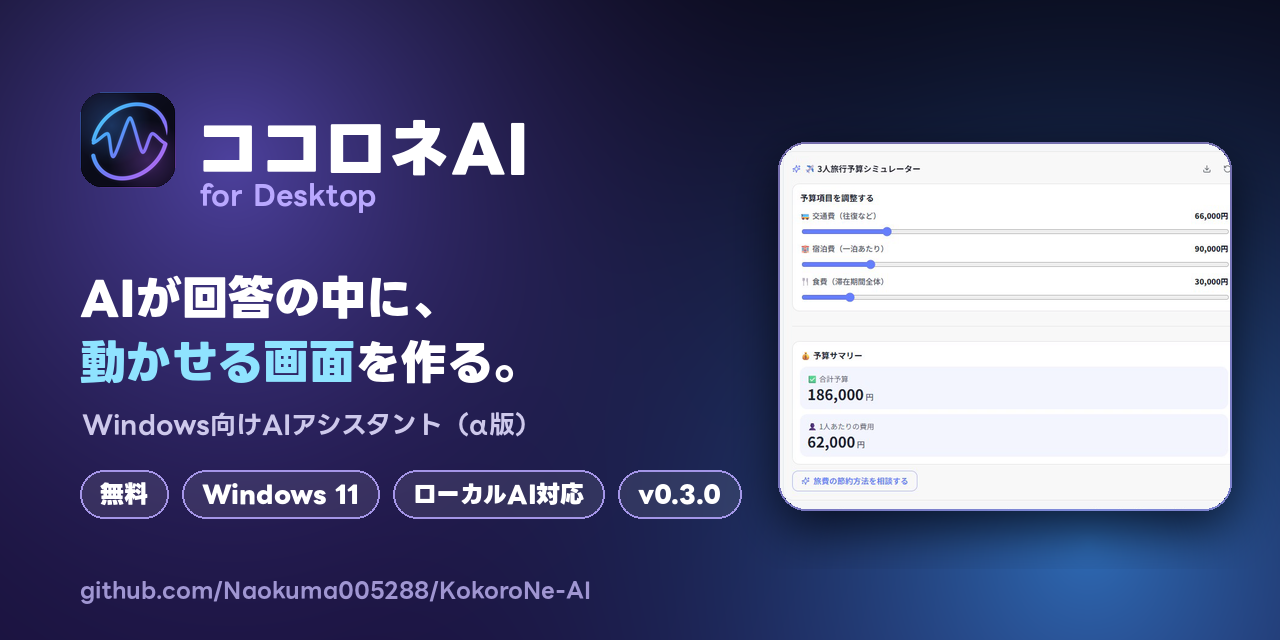
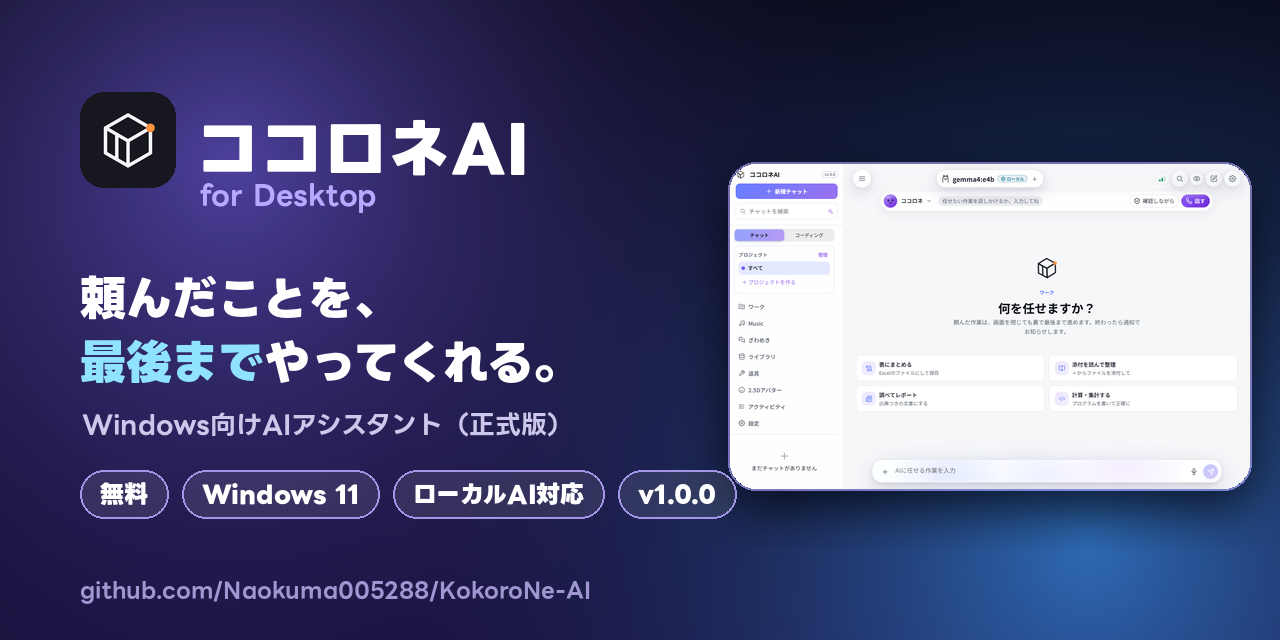
README: v1.0.0 の画像（ソーシャルプレビュー・ワーク・エージェント・コネクター・歌詞の演出GIF）

diff --git a/README.md b/README.md
@@ -29,6 +29,32 @@
 
 ## できること
 
+### ワーク：頼んだことを最後まで
+
+資料・表・スライドづくり、出典つきの調べもの、計算や集計など、頼んだ作業をAIが道具を組み合わせて最後まで進めます。画面を閉じても裏で続き、終わったら通知します。危ない操作の前には確認し、料金の目安と上限も表示します。
+
+<img src="assets/readme/work.png" alt="ワークの画面。何を任せますか？と、表にまとめる・調べてレポートなどの提案" width="720">
+
+### 歌詞の意味どおりに動く演出（ベータ）
+
+「演出をAIで作る」を押すと、AIが歌詞の意味を読んで、言葉ごとに合う動きを付けます。「夜明け」は昇り、「降る」は落ち、「飛び込もう」は飛び込みます。押した曲だけを解析し、もう一度押すと止まります。
+
+<img src="assets/readme/lyric-effects.gif" alt="フルスクリーンプレイヤーで、歌詞の言葉が意味に合わせて昇ったり落ちたりする" width="600">
+
+<sub>デモ用に作った曲と歌詞です。</sub>
+
+### 自分だけのエージェント
+
+名前・姿・話し方・呼び名を決めて、自分だけのエージェントを何人でも作れます。声でも頼めて、役割を決めるとチームとして働きます。
+
+<img src="assets/readme/agents.png" alt="設定の自分だけのエージェント。名前・姿・話し方を選ぶ" width="720">
+
+### コネクター
+
+メール・カレンダー・GitHub・Notion・LINE・MCP などをつなぐと、チャットとワークのAIが使えるようになります。アプリごとに、AIがどこまでしてよいかを選べます。パスワードやトークンはAIに渡しません。
+
+<img src="assets/readme/connectors.png" alt="コネクターの画面。メール・カレンダー・GitHubなどのつなぐボタン" width="720">
+
 ### 歌声に合わせて流れる歌詞
 
 フルスクリーンプレイヤーでは、左にジャケット、右に歌詞を大きく表示します。歌詞は歌声に合わせて左から右へなめらかに色が付き、背景はジャケットの色から作ったグラデーションが、バスドラムとベースに合わせてゆっくり動きます。単語ごとの時刻が無い歌詞も、PCの中のAIで歌声に位置を合わせて作れます。
